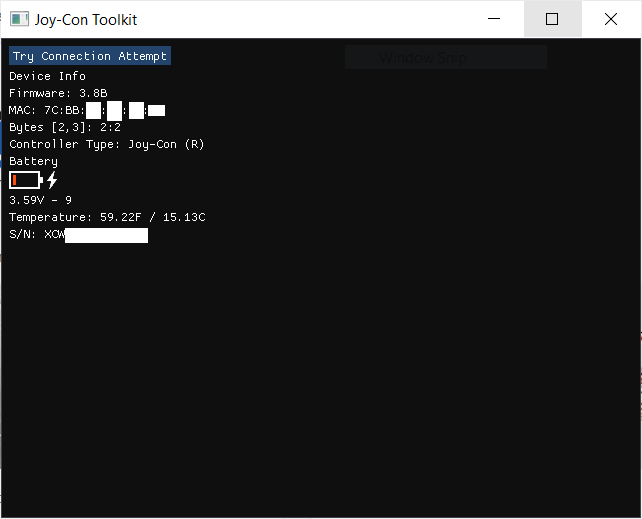
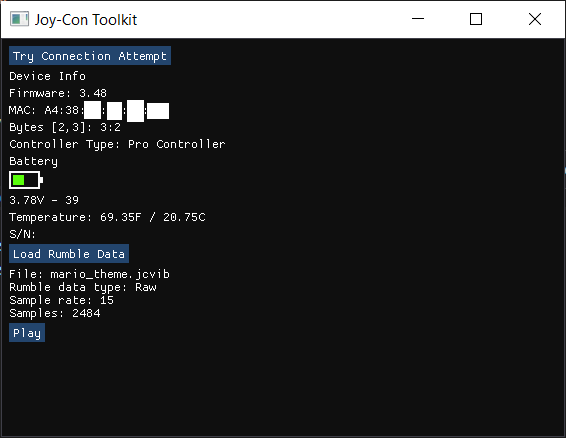
Play rumble through the API.

diff --git a/jctool/jctool_api_ui.cpp b/jctool/jctool_api_ui.cpp
@@ -4,10 +4,19 @@
  * that was once only accessible by the original UI is now accessible through
  * an API.
  */
+#include <filesystem>
+#include <fstream>
 #include <sstream>
 #include <string>
 #include <iterator>
 #include <vector>
+#include <memory>
+
+// Open a file dialog window
+#ifdef WIN32
+#include "Windows.h"
+#include "commdlg.h"
+#endif
 
 #include "jctool_api.hpp"
 #include "jctool.h"
@@ -73,15 +82,17 @@ namespace JCToolkit {
             }
         }
     }
+    Controller default_controller;
+    RumbleData default_rumble_data;
     namespace UI {
         /**
          * UI Port from jctool/FormJoy.h
          */
         void showDeviceInfo(const unsigned char* device_info){
             ImGui::Text("Device Info");
-            ImGui::Text("Firmware: %X.%2X", device_info[0], device_info[1]);
+            ImGui::Text("Firmware: %X.%02X", device_info[0], device_info[1]);
             ImGui::Text(
-                "MAC: %2X:%2X:%2X:%2X:%2X:%2X",
+                "MAC: %02X:%02X:%02X:%02X:%02X:%02X",
                 device_info[4], device_info[5], device_info[6],
                 device_info[7], device_info[8], device_info[9]
             );
@@ -134,12 +145,105 @@ namespace JCToolkit {
             ImGui::Text("S/N: %s", controller.getSerialNumber().c_str());
         }
 
+        void showRumblePlayer(RumbleData& rumble_data) {
+            if(ImGui::Button("Load Rumble Data")){
+                char file_name_buf[FILENAME_MAX];
+#ifdef WIN32
+                OPENFILENAME ofn;
+                ZeroMemory(&ofn, sizeof(ofn));
+                HWND hwnd = GetActiveWindow();
+                ofn.lStructSize = sizeof(ofn);
+                ofn.hwndOwner = hwnd;
+                ofn.lpstrFile = file_name_buf;
+                // Set lpstrFile[0] to '\0' so that GetOpenFileName does not 
+                // use the contents of szFile to initialize itself.
+                ofn.lpstrFile[0] = '\0';
+                ofn.nMaxFile = sizeof(file_name_buf);
+                ofn.lpstrFilter = "HD Rumble\0*.bnvib;*.jcvib\0\0";
+                ofn.nFilterIndex = 1;
+                ofn.lpstrFileTitle = NULL;
+                ofn.nMaxFileTitle = 0;
+                ofn.lpstrInitialDir = NULL;
+                ofn.Flags = OFN_PATHMUSTEXIST | OFN_FILEMUSTEXIST;
+                if(GetOpenFileName(&ofn)) {
+#endif
+                    std::ifstream rumble_fstream = std::ifstream(file_name_buf, std::ios_base::binary);
+                    if(!rumble_fstream.bad()){
+                        RumbleData new_rumble_data;
+                        // Calculate the size of the file.
+                        size_t rumble_data_size = std::filesystem::file_size(file_name_buf);
+                        char* read_buf = new char[rumble_data_size];
+                        rumble_fstream.read(read_buf, rumble_data_size);
+
+                        new_rumble_data.from_file = file_name_buf;
+                        new_rumble_data.metadata = getVIBMetadata(read_buf);
+                        new_rumble_data.data.reset(reinterpret_cast<u8*>(read_buf), [](u8* p){
+                            delete[] p;
+                        }); // Allocate enough space for the rumble data.
+
+                        rumble_data = new_rumble_data;
+                    }
+                }
+            }
+            if(rumble_data.data == nullptr)
+                ImGui::Text("There is no rumble data loaded.");
+            else {
+                const char* type_label;
+                bool loop = false;
+                switch(rumble_data.metadata.vib_file_type){
+                    case VIBRaw:
+                    type_label = "Raw";
+                    break;
+                    case VIBBinary:
+                    type_label = "Binary";
+                    break;
+                    case VIBBinaryLoop:
+                    type_label = "Binary loop";
+                    loop = true;
+                    break;
+                    case VIBBinaryLoopAndWait:
+                    type_label = "Binary loop and wait";
+                    loop = true;
+                    break;
+                    case VIBInvalid:
+                    type_label = "Invalid";
+                    break;
+                }
+                ImGui::Text(
+                    "File: %s\n"
+                    "Rumble data type: %s\n"
+                    "Sample rate: %u\n"
+                    "Samples: %d",
+                    std::filesystem::path(rumble_data.from_file).filename().generic_string().c_str(),
+                    type_label,
+                    rumble_data.metadata.sample_rate,
+                    rumble_data.metadata.samples
+                );
+                if(loop){
+                    ImGui::SameLine();
+                    ImGui::Text(
+                        "Start: %u\n"
+                        "End: %u\n"
+                        "Wait: %u\n"
+                        "Repeat: %u",
+                        rumble_data.metadata.loop_start,
+                        rumble_data.metadata.loop_end,
+                        rumble_data.metadata.loop_wait,
+                        rumble_data.metadata.loop_times
+                    );
+                }
+                if(default_controller.getHandle() && ImGui::Button("Play")){
+                    play_hd_rumble_file(default_controller.getHandle(), rumble_data);
+                }
+            }
+        }
+
         void show(){
-            static Controller default_controller;
             // Try to establish a connection with a controller.
             if(ImGui::Button("Try Connection Attempt"))
                 default_controller.connection();
             showControllerInfo(default_controller);
+            showRumblePlayer(default_rumble_data);
         }
     }
 }

diff --git a/jctool/jctool.cpp b/jctool/jctool.cpp
@@ -1331,7 +1331,7 @@ int play_tune(controller_hid_handle_t handle, int tune_no) {
 #ifndef __jctool_cpp_API__
 int play_hd_rumble_file(int file_type, u16 sample_rate, int samples, int loop_start, int loop_end, int loop_wait, int loop_times) {
 #else
-int play_hd_rumble_file(controller_hid_handle_t handle, VIBData rumble_data) {
+int play_hd_rumble_file(controller_hid_handle_t handle, RumbleData& rumble_data) {
     int file_type = rumble_data.metadata.vib_file_type;
     u16 sample_rate = rumble_data.metadata.sample_rate;
     int samples = rumble_data.metadata.samples;
@@ -1368,9 +1368,9 @@ int play_hd_rumble_file(controller_hid_handle_t handle, VIBData rumble_data) {
 
             auto use_rumble_data
 #ifndef __jctool_cpp_API__
-            =  (file_type == 1) ? FormJoy::myform1->vib_loaded_file : FormJoy::myform1->vib_converted_file;
+            =  (file_type == 1) ? FormJoy::myform1->vib_loaded_file : FormJoy::myform1->vib_file_converted;
 #else
-            = rumble_data.data;
+            = &*rumble_data.data;
 #endif
             if (file_type == 1) {
                 hdr->rumble_l[0] = use_rumble_data[0x0A + i];
@@ -1415,7 +1415,7 @@ int play_hd_rumble_file(controller_hid_handle_t handle, VIBData rumble_data) {
 #ifndef __jctool_cpp_API__
             = FormJoy::myform1->vib_loaded_file;
 #else
-            = rumble_data.data;
+            = &*rumble_data.data;
 #endif
             hdr->rumble_l[0] = use_rumble_data[0x0C + vib_off + i];
             hdr->rumble_l[1] = use_rumble_data[0x0D + vib_off + i];
@@ -1445,7 +1445,7 @@ int play_hd_rumble_file(controller_hid_handle_t handle, VIBData rumble_data) {
 #ifndef __jctool_cpp_API__
                 = FormJoy::myform1->vib_loaded_file;
 #else
-                = rumble_data.data;
+                = &*rumble_data.data;
 #endif
                 hdr->rumble_l[0] = use_rumble_data[0x0C + vib_off + i];
                 hdr->rumble_l[1] = use_rumble_data[0x0D + vib_off + i];
@@ -1489,7 +1489,7 @@ int play_hd_rumble_file(controller_hid_handle_t handle, VIBData rumble_data) {
 #ifndef __jctool_cpp_API__
             = FormJoy::myform1->vib_loaded_file;
 #else
-            = rumble_data.data;
+            = &*rumble_data.data;
 #endif
             hdr->rumble_l[0] = use_rumble_data[0x0C + vib_off + i];
             hdr->rumble_l[1] = use_rumble_data[0x0D + vib_off + i];

diff --git a/jctool/jctool_api.hpp b/jctool/jctool_api.hpp
@@ -6,7 +6,7 @@ BatteryData parseBatteryData(const unsigned char* batt_data);
 TemperatureData parseTemperatureData(const unsigned char* temp_data);
 
 template<typename ByteArray>
-VIBFileMetadata getVIBFileMetadata(ByteArray vib_loaded_file) {
+VIBMetadata getVIBMetadata(ByteArray vib_loaded_file) {
     u8 file_magic[] = { 0x52, 0x52, 0x41, 0x57, 0x4, 0xC, 0x3, 0x10 };
 
     VIBType vib_file_type = VIBInvalid;
@@ -64,7 +64,7 @@ VIBFileMetadata getVIBFileMetadata(ByteArray vib_loaded_file) {
 
 template<typename ByteArray>
 void convertVIBBinaryToRaw(ByteArray vib_data, ByteArray vib_out, int lf_amp, int hf_amp, int lf_freq, int hf_freq, int lf_gain, int hf_gain, int lf_pitch, int hf_pitch) {
-    VIBFileMetadata metadata = getVIBFileMetadata(vib_data);
+    VIBMetadata metadata = getVIBMetadata(vib_data);
     if (metadata.vib_file_type == VIBRaw)
         // No need to convert.
         return;

diff --git a/jctool/jctool_types.h b/jctool/jctool_types.h
@@ -1,4 +1,5 @@
 #pragma once
+#include <memory>
 #include <cstdint>
 #include "hidapi.h"
 
@@ -91,15 +92,6 @@ struct ir_image_config {
 
 #pragma pack(pop)
 
-#if __jctool_cpp_API__
-using controller_hid_handle_t = hid_device*;
-
-struct VIBData {
-    VIBFileMetadata metadata;
-    std::shared_ptr<u8[]> data;
-};
-#endif
-
 struct BatteryData {
     int percent;
     int report;
@@ -120,7 +112,7 @@ enum VIBType : unsigned char {
     VIBBinaryLoopAndWait
 };
 
-struct VIBFileMetadata {
+struct VIBMetadata {
     VIBType vib_file_type;
     u16 sample_rate;
     u32 samples;
@@ -129,3 +121,13 @@ struct VIBFileMetadata {
     u32 loop_wait;
     int loop_times;
 };
+
+#if __jctool_cpp_API__
+using controller_hid_handle_t = hid_device*;
+
+struct RumbleData {
+    std::string from_file;
+    VIBMetadata metadata;
+    std::shared_ptr<u8> data;
+};
+#endif

diff --git a/jctool/jctool.h b/jctool/jctool.h
@@ -40,7 +40,7 @@ int dump_spi(controller_hid_handle_t handle, const char *dev_name);
 int send_rumble(controller_hid_handle_t handle);
 int send_custom_command(controller_hid_handle_t handle, u8* arg);
 int play_tune(controller_hid_handle_t handle, int tune_no);
-int play_hd_rumble_file(controller_hid_handle_t handle, int file_type, u16 sample_rate, int samples, int loop_start, int loop_end, int loop_wait, int loop_times);
+int play_hd_rumble_file(controller_hid_handle_t handle, RumbleData& rumble_data);
 int device_connection(controller_hid_handle_t& handle);
 int button_test(controller_hid_handle_t handle);
 int set_led_busy(controller_hid_handle_t handle);

diff --git a/jctool/FormJoy.h b/jctool/FormJoy.h
@@ -5566,7 +5566,7 @@ public ref class FormJoy : public System::Windows::Forms::Form
             this->vib_file_converted = ms->ToArray();
             fileStream->Close();
 
-            VIBFileMetadata vib_metadata = getVIBFileMetadata(this->vib_loaded_file);
+            VIBMetadata vib_metadata = getVIBMetadata(this->vib_loaded_file);
             vib_file_type = (VIBType)vib_metadata.vib_file_type;
             vib_sample_rate = vib_metadata.sample_rate;
             vib_samples = vib_metadata.samples;

diff --git a/jctool/Controller.hpp b/jctool/Controller.hpp
@@ -29,6 +29,7 @@ public:
     inline Type getType() { return this->controller_type; }
     inline const unsigned char* getDeviceInfo() { return this->device_data; }
     inline const std::string getSerialNumber() { return this->serial_number; }
+    inline const controller_hid_handle_t getHandle() { return this->handle; }
 private:
     unsigned char device_data[10] = {}; // Initialize to nulls.
     // The serial number of the controller.
